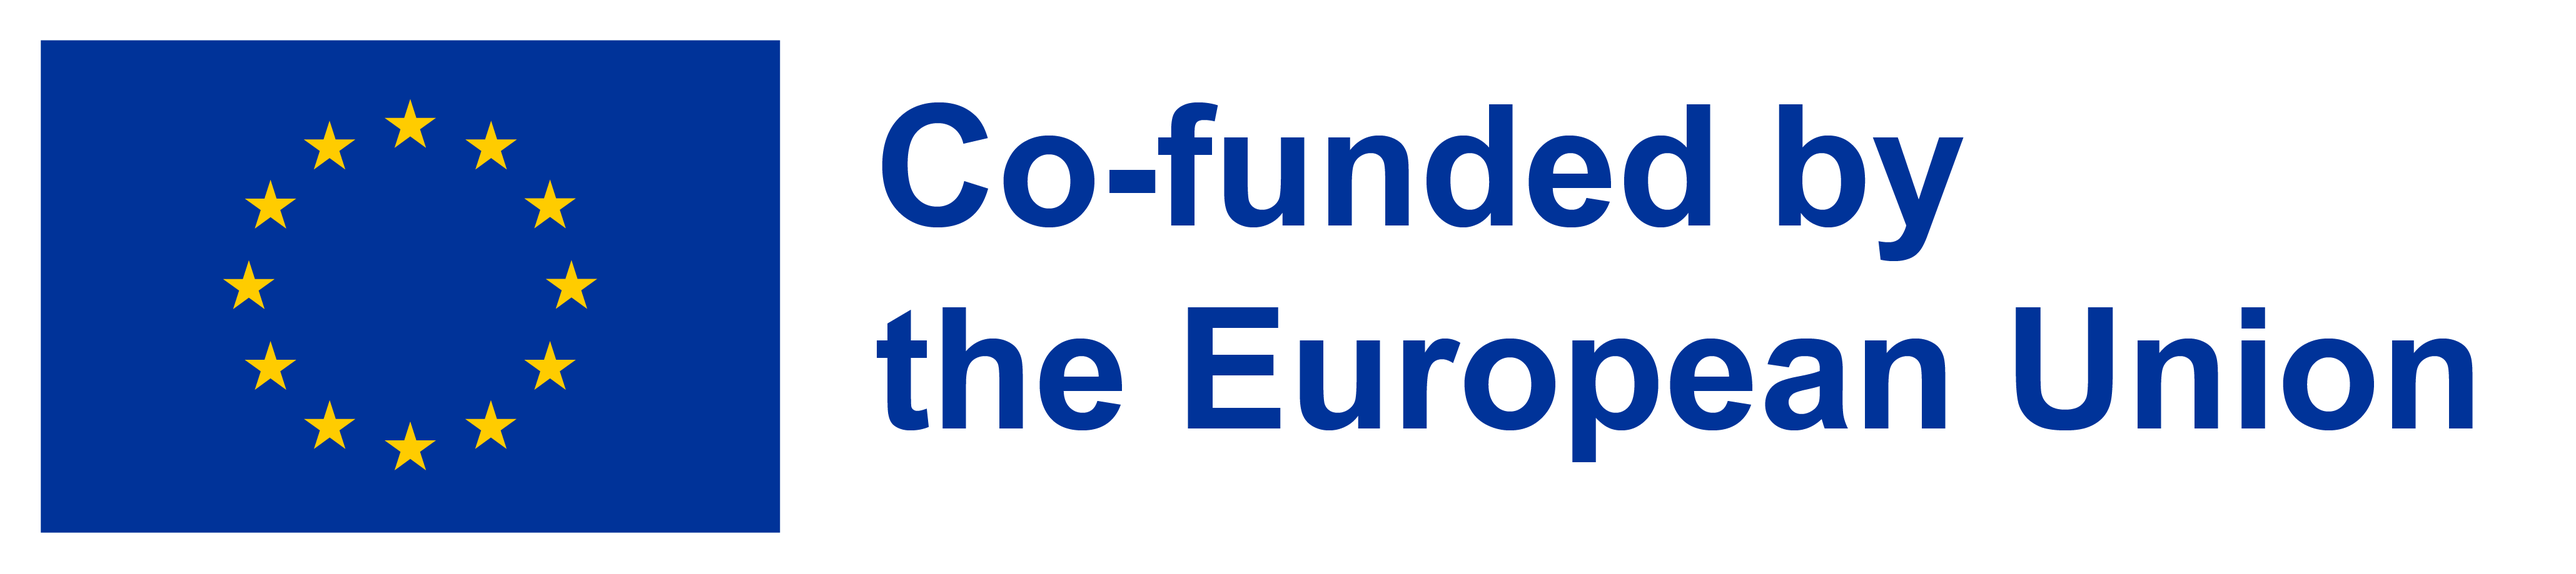
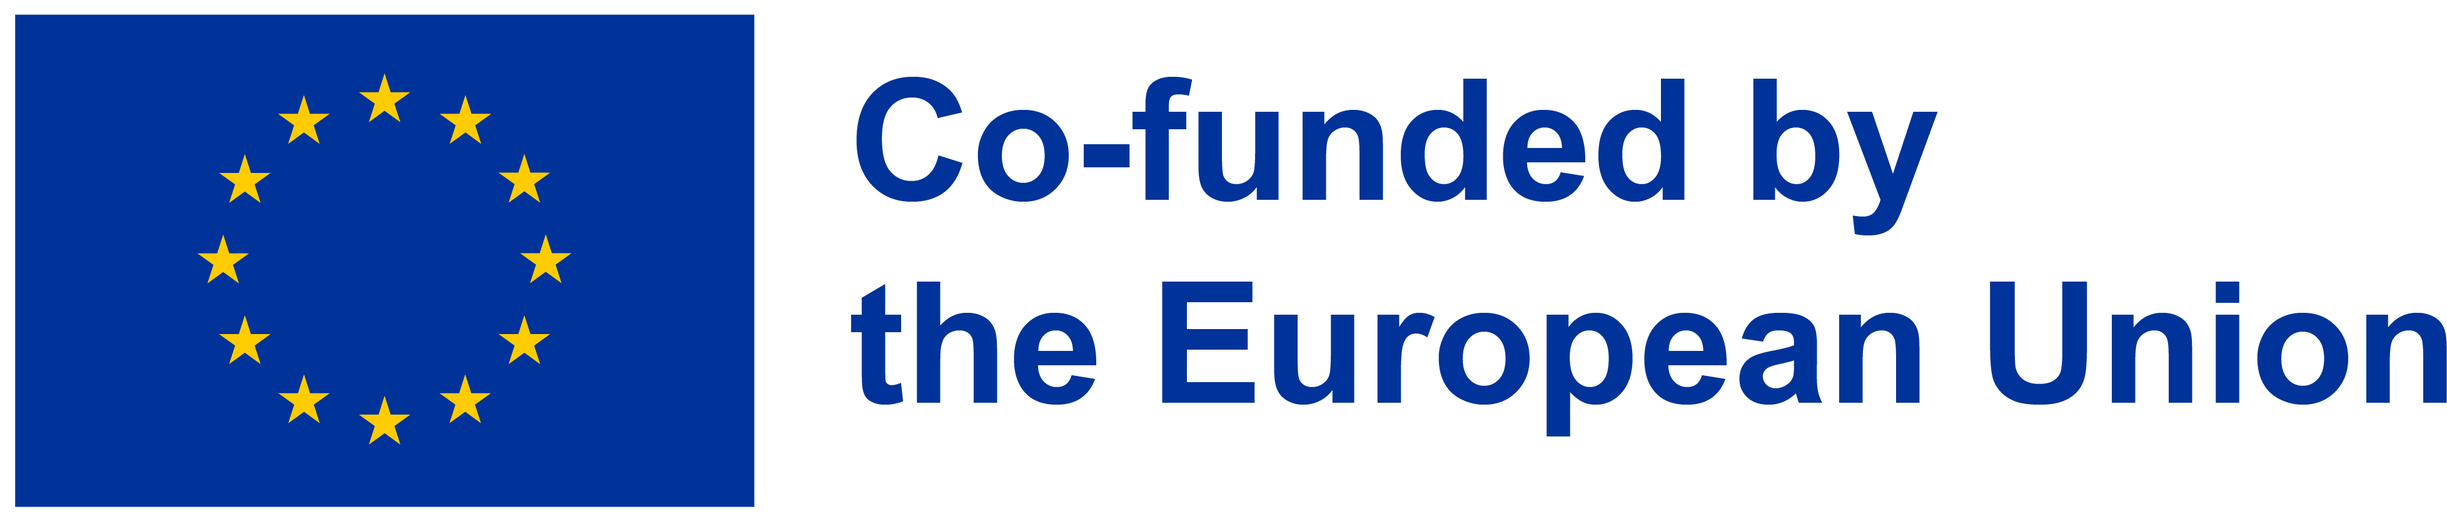
fix(client): crop the transparent margin of the EU emblem so its border aligns with the page

diff --git a/packages/client/src/pages/index.css b/packages/client/src/pages/index.css
@@ -40,7 +40,7 @@ datasets-entry {
     /*
      * The tile echoes the flag of the EU emblem closing the page: the same 3:2 proportions, and the same height, as
      * it is set in the type of the emblem, the size of small print, and takes the share of the three lines of the emblem
-     * its flag covers, 382 of its 446 pixels; the glyph sits centred, a little over half the height of the tile.
+     * its flag covers, 789 of its 836 pixels; the glyph sits centred, a little over half the height of the tile.
      */
 
     & > .glyph {
@@ -53,7 +53,7 @@ datasets-entry {
         justify-content: center;
 
         font-size: calc(var(--skin--font-size-small) * 0.75);
-        block-size: calc(3lh * 382 / 446);
+        block-size: calc(3lh * 789 / 836);
         aspect-ratio: 3 / 2;
         border-radius: var(--skin--border-radius-050);
 
